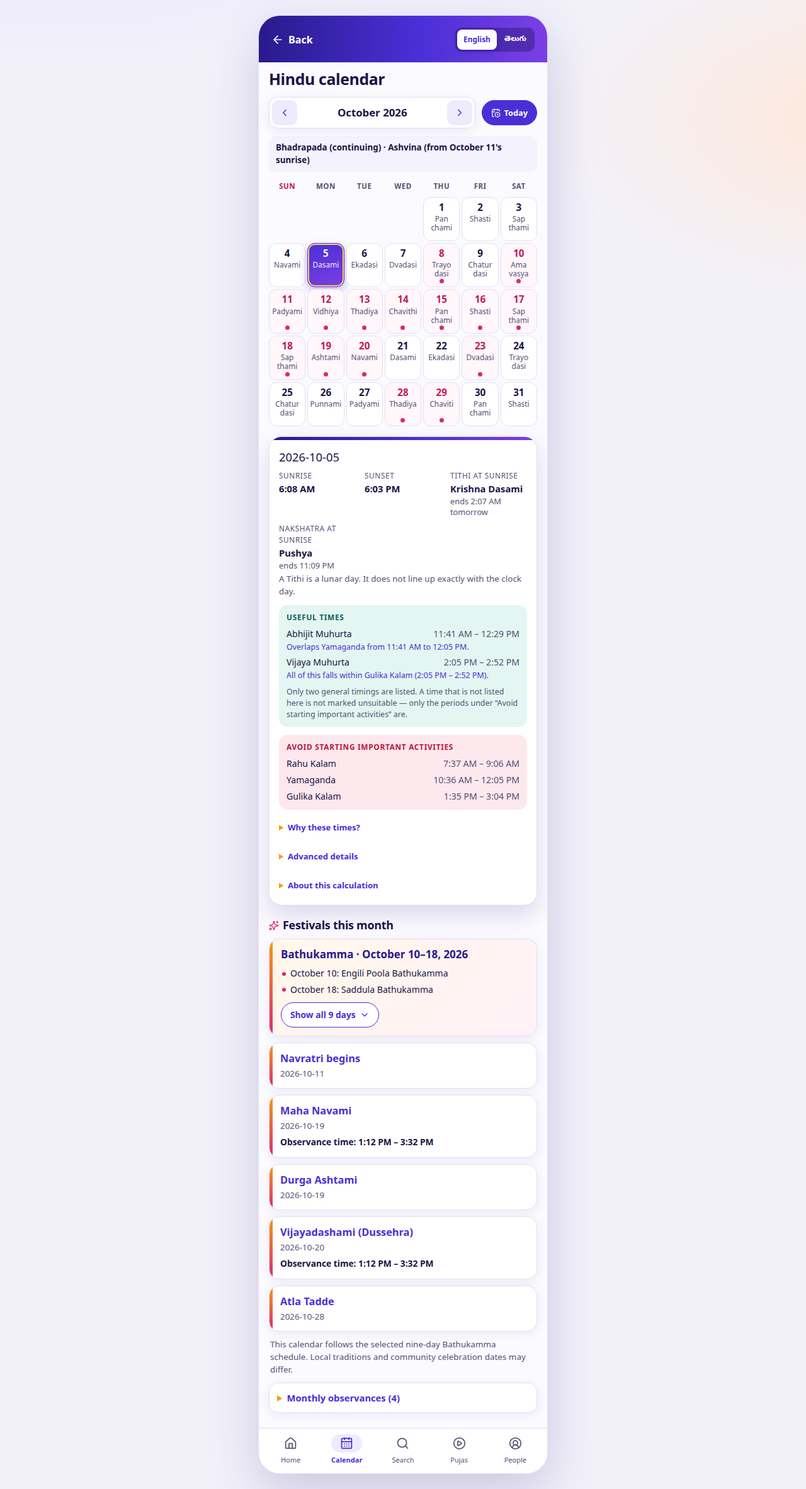
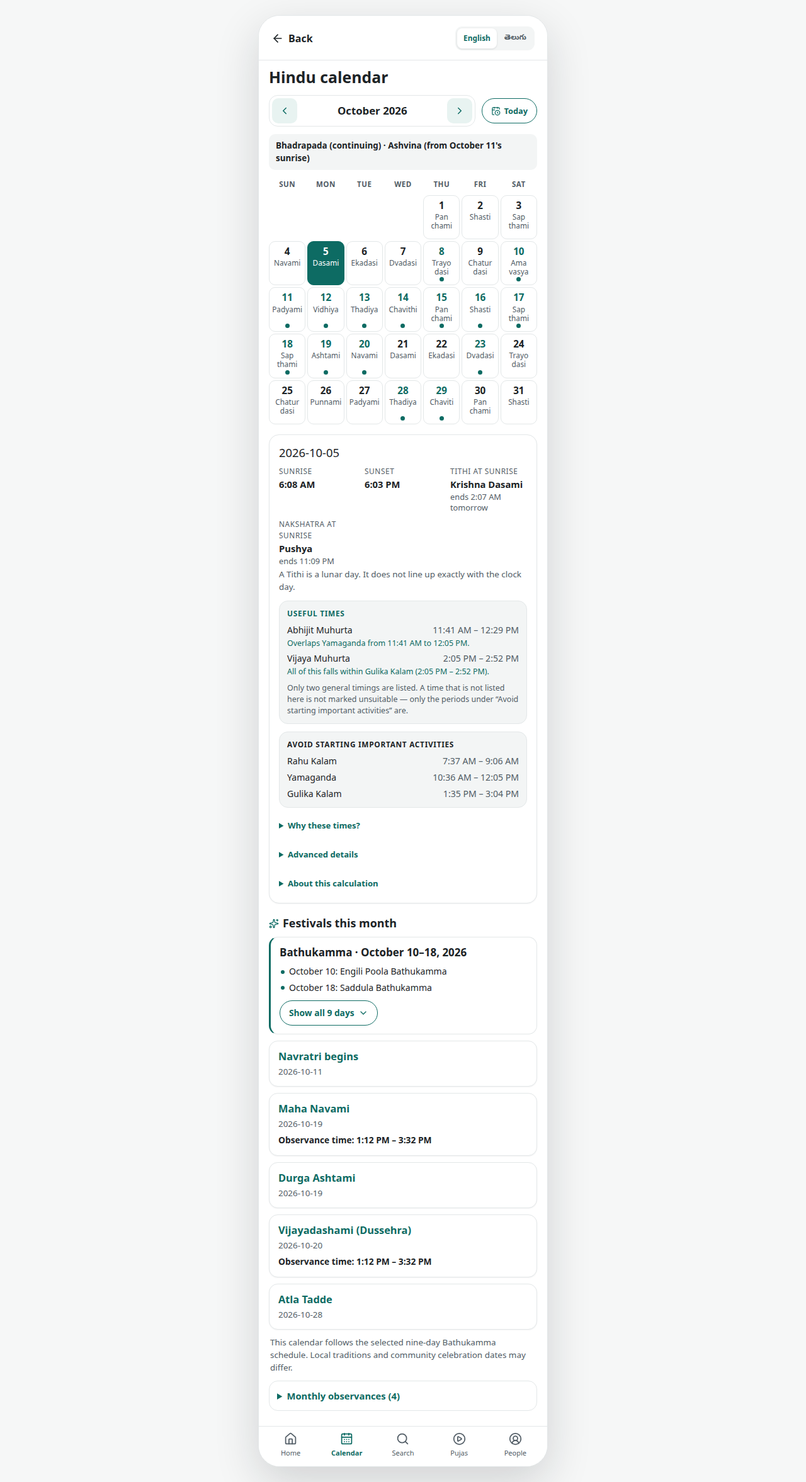
Design exploration: simplify to one calm accent (owner feedback)
Owner feedback on the dusk/marigold version: "make it little more
different simple". Replaces it with a calmer third direction:

- one accent colour (deep teal #0d6b63) used only for primary actions,
  links, today/selected date and festival markers;
- no gradients anywhere; flat white app bar with a hairline divider;
- white cards on a cool-neutral page (#f6f7f7), one neutral tint
  (#f3f5f5) for secondary panels; no per-panel hues;
- plain system-sans type hierarchy (weight 700, no letter-spacing
  tricks); neutral shadows.

Same token architecture; the per-screen override block is about half
the size. Presentation only; Tithi-label wrapping rules untouched.
theme-color follows the white app bar. Screenshots updated.

diff --git a/app/globals.css b/app/globals.css
@@ -4,17 +4,17 @@
 
 .back-button{border:0;background:transparent;color:var(--foreground);display:flex;align-items:center;gap:7px;font-weight:700;padding:8px 0}.plain-note{margin:15px 0 0;padding-top:13px;border-top:1px solid rgba(255,255,255,.18);font-size:.78rem;line-height:1.45;color:rgba(255,255,255,.78)}.full-button{width:100%;border:0;text-align:left}.full-button>span{display:flex;align-items:center;color:var(--primary);font-size:.76rem;font-weight:800}.resume-line{display:flex;align-items:center;gap:6px;margin-top:12px;color:var(--primary);font-size:.78rem;font-weight:700}.flow-content{flex:1;padding:12px 20px 28px;overflow:auto}.flow-content>h1,.completion h1{margin:0;font-family:var(--font-display);font-size:1.8rem;line-height:1.3}.flow-intro{margin:10px 0 20px;color:var(--muted);font-size:.95rem;line-height:1.55}.person-list{display:grid;gap:12px}.form-card{border:1px solid var(--border);border-radius:18px;background:#fff;padding:16px}.form-card h2{margin:0 0 14px;font-family:var(--font-display);font-size:1.05rem}.form-card label{display:block;margin-top:12px;font-size:.82rem;font-weight:700}.form-card input,.form-card select{display:block;width:100%;margin-top:7px;border:1px solid var(--border);border-radius:11px;background:#fff;color:var(--foreground);padding:12px;font-size:.9rem}.add-button{width:100%;margin-top:12px;border:1px dashed var(--primary);border-radius:14px;background:var(--primary-soft);color:var(--primary);padding:12px;display:flex;justify-content:center;align-items:center;gap:7px;font-weight:800}.safety-note,.simple-explanation{display:flex;gap:11px;margin:18px 0;padding:14px;border-radius:16px;background:var(--surface-2);color:var(--foreground)}.safety-note svg,.simple-explanation>svg{flex:none;color:var(--primary)}.safety-note strong{font-size:.83rem}.safety-note p,.simple-explanation p{margin:6px 0 0;color:var(--muted);font-size:.8rem;line-height:1.5}.wide-primary{width:100%;min-height:48px;border:0;border-radius:14px;background:var(--primary);color:#fff;display:flex;align-items:center;justify-content:center;gap:8px;font-weight:800}.progress-label,.step-line{display:flex;justify-content:space-between;margin:18px 1px 8px;font-size:.8rem;color:var(--muted)}.progress-track{height:7px;border-radius:999px;background:var(--track);overflow:hidden}.progress-track span{display:block;height:100%;border-radius:999px;background:var(--primary);transition:width .25s ease}.check-box{width:22px;height:22px;border:1.5px solid var(--control-border);border-radius:7px;display:grid;place-items:center;flex:none}.simple-explanation h2{margin:0;font-family:var(--font-display);font-size:1rem}.simple-explanation strong{display:block;margin-top:8px;font-size:.78rem;line-height:1.4}.participant-summary{display:flex;align-items:center;gap:7px;color:var(--muted);font-size:.82rem;margin:18px 1px 12px}.puja-flow{display:flex;flex-direction:column}.puja-card{margin-top:20px;border:1px solid var(--border);border-radius:23px;background:#fff;padding:22px}.telugu-title{margin:0 0 8px;color:var(--primary);font-weight:800}.puja-card h1{margin:0;font-family:var(--font-display);font-size:1.7rem}.locked-note{display:flex;gap:9px;margin:15px 0;padding:12px;border-radius:13px;background:var(--warn-soft);color:var(--warn-text);font-size:.78rem;line-height:1.45}.locked-note svg{flex:none}.audio-button{width:100%;min-height:46px;border-radius:13px;display:flex;align-items:center;justify-content:center;gap:8px;font-weight:800;border:0;background:var(--primary-soft);color:var(--primary)}.audio-button:disabled{opacity:.65;cursor:not-allowed}.step-actions{display:grid;grid-template-columns:1fr 1.35fr;gap:10px;margin-top:auto;padding-top:22px}.step-actions button{min-height:47px;border:1px solid var(--border);border-radius:13px;background:#fff;color:var(--foreground);font-weight:800}.step-actions button:disabled{opacity:.4}.step-actions .primary-action{background:var(--primary);border-color:var(--primary);color:#fff;display:flex;align-items:center;justify-content:center;gap:5px}.completion{flex:1;display:flex;flex-direction:column;align-items:center;justify-content:center;text-align:center;padding:35px 25px}.completion-icon{width:76px;height:76px;border-radius:50%;display:grid;place-items:center;background:var(--primary-soft);color:var(--primary);margin-bottom:20px}.completion>p:not(.kicker){max-width:330px;color:var(--muted);line-height:1.6}.completion .wide-primary{max-width:310px;margin-top:20px}.restart-button{margin-top:10px;border:0;background:transparent;color:var(--primary);display:flex;align-items:center;gap:6px;padding:10px;font-weight:700}
 
-/* Core design tokens (vibrant/modern direction). Every component below reads
- * its colours from these, so the palette changes in one place. Text pairs
- * are chosen to meet WCAG AA (4.5:1): foreground/surface 17:1, muted/surface
- * 7.2:1, primary/surface 7.9:1, white/primary 7.9:1. */
-:root{--background:#f2f1fa;--foreground:#1a1446;--card:#fbfaff;--primary:#4a2fd6;--primary-dark:#2a1a8c;--primary-soft:#eeebff;--muted:#575377;--border:#e3e0f2;
-  --surface:#ffffff;--surface-2:#f4f2fd;--surface-accent:#f6f4ff;--track:#e4e1f5;--control-border:#7d7aa3;--past-dot:#b9b5d6;
-  --danger:#be123c;--warn-soft:#fff4dc;--warn-text:#8a4b00;--accent-light:#ffd166;
-  --hero-gradient:linear-gradient(90deg,#2a1a8c 0%,#4a2fd6 55%,#7b3fe4 100%);
+/* Core design tokens (simple/modern direction). Every component below reads
+ * its colours from these, so the palette changes in one place.
+ * One accent (--primary, deep teal) on white and cool-neutral surfaces.
+ * Text pairs meet WCAG AA (4.5:1): foreground/white 15.9:1, muted/white
+ * 6.7:1, primary/white 6.4:1, white/primary 6.4:1. */
+:root{--background:#f6f7f7;--foreground:#1c2326;--card:#ffffff;--primary:#0d6b63;--primary-dark:#0a524c;--primary-soft:#e8f3f1;--muted:#525d66;--border:#e3e7e8;
+  --surface:#ffffff;--surface-2:#f3f5f5;--surface-accent:#f3f5f5;--track:#e3e7e8;--control-border:#7a858c;--past-dot:#c3c9cc;
+  --danger:#b42318;--warn-soft:#fff4dc;--warn-text:#8a4b00;--accent-light:#ffffff;
   --font-body:ui-sans-serif,system-ui,-apple-system,"Segoe UI",Roboto,"Helvetica Neue",Arial,sans-serif;
   --font-display:var(--font-body)}
-*{box-sizing:border-box}body{margin:0;background:var(--background);color:var(--foreground);font-family:var(--font-body)}button,select{font:inherit}button{cursor:pointer}button:disabled{opacity:.5;cursor:not-allowed}.app-shell{min-height:100vh;display:grid;place-items:center;padding:24px}.phone-shell{width:min(100%,460px);min-height:min(900px,calc(100vh - 48px));background:var(--card);border:1px solid var(--border);border-radius:34px;overflow:hidden;box-shadow:0 24px 70px rgba(36,24,110,.16);display:flex;flex-direction:column}.topbar{padding:22px 20px 14px;display:flex;align-items:center;justify-content:space-between;gap:16px}.brand-lockup{display:flex;align-items:center;gap:11px}.brand-mark{width:43px;height:43px;border-radius:14px;display:grid;place-items:center;background:var(--primary-soft);color:var(--primary);font-family:var(--font-display);font-size:23px}.brand-name{font-family:var(--font-display);font-size:1.18rem;font-weight:700}.location-button{border:0;padding:4px 0 0;background:transparent;color:var(--muted);display:flex;align-items:center;gap:3px;font-size:.78rem}.content{flex:1;padding:2px 18px 22px}.welcome-row{display:flex;justify-content:space-between;align-items:flex-start;gap:14px;margin:8px 2px 18px}.kicker,.eyebrow{margin:0 0 5px;font-size:.69rem;letter-spacing:.12em;font-weight:800;color:var(--muted)}.welcome-row h1{margin:0;font-family:var(--font-display);font-size:1.9rem;line-height:1.3}.welcome-copy{margin:7px 0 0;color:var(--muted);font-size:.88rem;line-height:1.4}.today-card{padding:19px;border-radius:24px;color:#fff;background:linear-gradient(145deg,var(--primary-dark),var(--danger));box-shadow:0 12px 28px rgba(58,36,180,.22)}.card-heading-row{display:flex;align-items:flex-start;justify-content:space-between;gap:10px}.today-card .eyebrow{color:rgba(255,255,255,.7)}.today-card h2{margin:0;font-family:var(--font-display);font-size:1.25rem}.status-chip{display:flex;align-items:center;gap:5px;padding:6px 8px;border:1px solid rgba(255,255,255,.25);border-radius:999px;font-size:.7rem;background:rgba(255,255,255,.08)}.panchanga-grid{margin-top:18px;padding-top:15px;border-top:1px solid rgba(255,255,255,.18);display:grid;grid-template-columns:repeat(3,1fr);gap:10px}.panchanga-grid span,.panchanga-grid strong{display:block}.panchanga-grid span{margin-bottom:5px;color:rgba(255,255,255,.68);font-size:.71rem}.panchanga-grid strong{font-size:.78rem;line-height:1.35}
+*{box-sizing:border-box}body{margin:0;background:var(--background);color:var(--foreground);font-family:var(--font-body)}button,select{font:inherit}button{cursor:pointer}button:disabled{opacity:.5;cursor:not-allowed}.app-shell{min-height:100vh;display:grid;place-items:center;padding:24px}.phone-shell{width:min(100%,460px);min-height:min(900px,calc(100vh - 48px));background:var(--card);border:1px solid var(--border);border-radius:34px;overflow:hidden;box-shadow:0 24px 70px rgba(16,24,32,.16);display:flex;flex-direction:column}.topbar{padding:22px 20px 14px;display:flex;align-items:center;justify-content:space-between;gap:16px}.brand-lockup{display:flex;align-items:center;gap:11px}.brand-mark{width:43px;height:43px;border-radius:14px;display:grid;place-items:center;background:var(--primary-soft);color:var(--primary);font-family:var(--font-display);font-size:23px}.brand-name{font-family:var(--font-display);font-size:1.18rem;font-weight:700}.location-button{border:0;padding:4px 0 0;background:transparent;color:var(--muted);display:flex;align-items:center;gap:3px;font-size:.78rem}.content{flex:1;padding:2px 18px 22px}.welcome-row{display:flex;justify-content:space-between;align-items:flex-start;gap:14px;margin:8px 2px 18px}.kicker,.eyebrow{margin:0 0 5px;font-size:.69rem;letter-spacing:.12em;font-weight:800;color:var(--muted)}.welcome-row h1{margin:0;font-family:var(--font-display);font-size:1.9rem;line-height:1.3}.welcome-copy{margin:7px 0 0;color:var(--muted);font-size:.88rem;line-height:1.4}.today-card{padding:19px;border-radius:24px;color:#fff;background:var(--primary-dark);box-shadow:0 12px 28px rgba(16,24,32,.22)}.card-heading-row{display:flex;align-items:flex-start;justify-content:space-between;gap:10px}.today-card .eyebrow{color:rgba(255,255,255,.7)}.today-card h2{margin:0;font-family:var(--font-display);font-size:1.25rem}.status-chip{display:flex;align-items:center;gap:5px;padding:6px 8px;border:1px solid rgba(255,255,255,.25);border-radius:999px;font-size:.7rem;background:rgba(255,255,255,.08)}.panchanga-grid{margin-top:18px;padding-top:15px;border-top:1px solid rgba(255,255,255,.18);display:grid;grid-template-columns:repeat(3,1fr);gap:10px}.panchanga-grid span,.panchanga-grid strong{display:block}.panchanga-grid span{margin-bottom:5px;color:rgba(255,255,255,.68);font-size:.71rem}.panchanga-grid strong{font-size:.78rem;line-height:1.35}
 .panchanga-values{margin:15px 0 0;padding:0;display:grid;grid-template-columns:1fr 1fr;gap:12px 14px}
 .panchanga-values div{margin:0}
 .panchanga-values dt{margin:0 0 3px;color:rgba(255,255,255,.68);font-size:.7rem;letter-spacing:.06em;text-transform:uppercase}
@@ -74,7 +74,7 @@
 @media(max-width:370px){.material-head{flex-direction:column}}
 
 /* Review round 2: gating, pilot data, patri self-report */
-.global-lang-toggle{display:flex;gap:2px;padding:3px;border-radius:11px;background:var(--surface-2);flex:none}.global-lang-toggle button{border:0;border-radius:8px;background:transparent;padding:6px 10px;color:var(--muted);font-size:.74rem;font-weight:700}.global-lang-toggle button.active{background:#fff;color:var(--primary);box-shadow:0 1px 5px rgba(36,24,110,.1)}
+.global-lang-toggle{display:flex;gap:2px;padding:3px;border-radius:11px;background:var(--surface-2);flex:none}.global-lang-toggle button{border:0;border-radius:8px;background:transparent;padding:6px 10px;color:var(--muted);font-size:.74rem;font-weight:700}.global-lang-toggle button.active{background:#fff;color:var(--primary);box-shadow:0 1px 5px rgba(16,24,32,.1)}
 .info-note{display:flex;gap:8px;align-items:flex-start;margin:14px 0;padding:11px 12px;border-radius:12px;background:#eef1f3;color:#3f4b52;font-size:.82rem;line-height:1.5;font-weight:600}
 .info-note svg{flex:none;margin-top:1px}
 .awaiting-review{display:flex;gap:8px;align-items:flex-start;margin:12px 0 0;padding:11px 12px;border-radius:12px;background:#fdeae2;border:1px solid #efb79c;color:#8a3c1c;font-size:.82rem;line-height:1.5;font-weight:600}
@@ -93,7 +93,7 @@
 .candidate-disclaimer{margin:0;color:var(--muted);font-size:.76rem;line-height:1.45}
 
 /* End-to-end private review journey */
-.path-options{border:0;margin:16px 0;padding:0;display:grid;gap:9px}.path-options label{display:flex;gap:10px;padding:13px;border:1px solid var(--border);border-radius:14px;background:#fff;cursor:pointer}.path-options label.selected{border-color:var(--primary);background:var(--primary-soft)}.path-options input{accent-color:var(--primary)}.path-options strong,.path-options small{display:block}.path-options small{margin-top:4px;color:var(--muted);line-height:1.4}.reviewer-banner{display:flex;gap:8px;align-items:flex-start;margin:0 0 14px;padding:10px 11px;border:1px solid #e7c578;border-radius:12px;background:#fff8df;color:#684b12;font-size:.76rem;line-height:1.45}.reviewer-banner svg{flex:none;margin-top:1px}.language-toggle{display:grid;grid-template-columns:1fr 1fr;gap:5px;margin-bottom:15px;padding:4px;border-radius:12px;background:var(--surface-2)}.language-toggle button{border:0;border-radius:9px;background:transparent;padding:8px;color:var(--muted);font-weight:700}.language-toggle button.active{background:#fff;color:var(--primary);box-shadow:0 1px 5px rgba(36,24,110,.1)}.step-meta{margin:7px 0 0;color:var(--muted);font-size:.76rem;font-weight:700}.participant-review{margin-top:14px;padding:12px;border-radius:12px;background:var(--surface-2)}.participant-review p{margin:5px 0;font-size:.9rem}.participant-review small{color:var(--muted);line-height:1.4}.audio-note{margin:6px 0 0;color:var(--muted);font-size:.72rem;line-height:1.4}.wide-secondary{width:100%;max-width:310px;min-height:48px;border:1px solid var(--primary);border-radius:14px;background:#fff;color:var(--primary);display:flex;align-items:center;justify-content:center;gap:8px;font-weight:800;margin-top:18px}.immersion-flow>h1{margin-bottom:14px}.choice-card{margin:12px 0;padding:16px;border:1px solid var(--border);border-radius:16px;background:#fff}.choice-card h2{margin:0 0 8px;font-family:var(--font-display);font-size:1.08rem}.choice-card p,.choice-card li{color:var(--muted);font-size:.84rem;line-height:1.55}.choice-card p{margin:0}.choice-card ol{padding-left:20px;margin:8px 0 0}.choice-card li+li{margin-top:5px}
+.path-options{border:0;margin:16px 0;padding:0;display:grid;gap:9px}.path-options label{display:flex;gap:10px;padding:13px;border:1px solid var(--border);border-radius:14px;background:#fff;cursor:pointer}.path-options label.selected{border-color:var(--primary);background:var(--primary-soft)}.path-options input{accent-color:var(--primary)}.path-options strong,.path-options small{display:block}.path-options small{margin-top:4px;color:var(--muted);line-height:1.4}.reviewer-banner{display:flex;gap:8px;align-items:flex-start;margin:0 0 14px;padding:10px 11px;border:1px solid #e7c578;border-radius:12px;background:#fff8df;color:#684b12;font-size:.76rem;line-height:1.45}.reviewer-banner svg{flex:none;margin-top:1px}.language-toggle{display:grid;grid-template-columns:1fr 1fr;gap:5px;margin-bottom:15px;padding:4px;border-radius:12px;background:var(--surface-2)}.language-toggle button{border:0;border-radius:9px;background:transparent;padding:8px;color:var(--muted);font-weight:700}.language-toggle button.active{background:#fff;color:var(--primary);box-shadow:0 1px 5px rgba(16,24,32,.1)}.step-meta{margin:7px 0 0;color:var(--muted);font-size:.76rem;font-weight:700}.participant-review{margin-top:14px;padding:12px;border-radius:12px;background:var(--surface-2)}.participant-review p{margin:5px 0;font-size:.9rem}.participant-review small{color:var(--muted);line-height:1.4}.audio-note{margin:6px 0 0;color:var(--muted);font-size:.72rem;line-height:1.4}.wide-secondary{width:100%;max-width:310px;min-height:48px;border:1px solid var(--primary);border-radius:14px;background:#fff;color:var(--primary);display:flex;align-items:center;justify-content:center;gap:8px;font-weight:800;margin-top:18px}.immersion-flow>h1{margin-bottom:14px}.choice-card{margin:12px 0;padding:16px;border:1px solid var(--border);border-radius:16px;background:#fff}.choice-card h2{margin:0 0 8px;font-family:var(--font-display);font-size:1.08rem}.choice-card p,.choice-card li{color:var(--muted);font-size:.84rem;line-height:1.55}.choice-card p{margin:0}.choice-card ol{padding-left:20px;margin:8px 0 0}.choice-card li+li{margin-top:5px}
 
 /* Telugu/English narration controls */
 .audio-controls{display:flex;gap:8px;align-items:stretch}
@@ -186,7 +186,7 @@
 .toggle-caption{margin:0 0 4px;font-size:.72rem;line-height:1.45;color:var(--muted)}
 .playback-speed-toggle{display:grid;grid-template-columns:repeat(3,minmax(0,1fr));gap:5px;margin:0 0 15px;padding:4px;border-radius:12px;background:var(--surface-2)}
 .playback-speed-toggle button{border:0;border-radius:9px;background:transparent;padding:8px;color:var(--muted);font-weight:700;font-size:.82rem}
-.playback-speed-toggle button.active{background:#fff;color:var(--primary);box-shadow:0 1px 5px rgba(36,24,110,.1)}
+.playback-speed-toggle button.active{background:#fff;color:var(--primary);box-shadow:0 1px 5px rgba(16,24,32,.1)}
 .te-pending-note{margin:8px 0 0;padding:8px 10px;border-radius:9px;background:var(--warn-soft);color:var(--warn-text);font-size:.76rem;line-height:1.5}
 .app-audio{margin:14px 0 0}
 .app-audio .audio-controls{margin-top:0}
@@ -329,7 +329,7 @@
 /* Keep Previous/Next reachable after a long mantra */
 .puja-flow{scroll-padding-bottom:96px}
 .puja-flow .puja-card{margin-bottom:10px}
-.puja-flow .step-actions{position:sticky;bottom:0;z-index:2;background:var(--card);padding-top:14px;padding-bottom:calc(14px + env(safe-area-inset-bottom,0px));box-shadow:0 -10px 14px -8px rgba(36,24,110,.18)}
+.puja-flow .step-actions{position:sticky;bottom:0;z-index:2;background:var(--card);padding-top:14px;padding-bottom:calc(14px + env(safe-area-inset-bottom,0px));box-shadow:0 -10px 14px -8px rgba(16,24,32,.18)}
 /* Programmatic focus of the step heading on step change must not draw a
  * visible outline or shift layout; keyboard focus still shows one. */
 .puja-card h1{outline:none}
@@ -515,21 +515,21 @@
  * light cards, text accents in --primary and a decorative accent (--accent).
  * The layout and the Tithi-label wrapping decided here still apply; the
  * colours are re-themed by the "Vibrant/modern direction" block at the end. */
-:root{--accent:#f59e0b;--accent-soft:#fff4dc;--tile-border:#e7e4f6;--times-useful:#e3f6f1;--times-avoid:#fde8ee}
+:root{--accent:var(--primary);--accent-soft:var(--primary-soft);--tile-border:var(--border);--times-useful:var(--surface-2);--times-avoid:var(--surface-2)}
 
 /* Home: welcome */
 .welcome-row{margin:6px 2px 14px}
 .welcome-row h1{font-size:1.7rem;line-height:1.25}
 
 /* Home: today card - light, readable, saffron-tinted header */
-.today-card{padding:18px 16px 16px;border:1px solid var(--tile-border);border-top:4px solid var(--accent);border-radius:20px;color:var(--foreground);background:linear-gradient(180deg,var(--warn-soft) 0,#fffaf3 150px,#fffaf3 100%);box-shadow:0 8px 22px rgba(58,36,180,.08)}
+.today-card{padding:18px 16px 16px;border:1px solid var(--tile-border);border-top:4px solid var(--accent);border-radius:20px;color:var(--foreground);background:linear-gradient(180deg,var(--warn-soft) 0,#fffaf3 150px,#fffaf3 100%);box-shadow:0 8px 22px rgba(16,24,32,.08)}
 .today-card .eyebrow{color:var(--primary)}
 .today-card-place{display:flex;align-items:flex-start;gap:5px;line-height:1.4}
 .today-card-place svg{flex:none;margin-top:1px}
 .today-card h2{font-size:1.4rem;line-height:1.3;color:var(--foreground)}
 .today-card .plain-note{border-top-color:var(--border);color:var(--muted)}
 .today-card .panchanga-loading{color:var(--muted)}
-.today-card .panchanga-loading::after{border-color:rgba(74,47,214,.25);border-top-color:var(--primary)}
+.today-card .panchanga-loading::after{border-color:rgba(13,107,99,.25);border-top-color:var(--primary)}
 .today-card .source-link{color:var(--primary);font-weight:700;font-size:.82rem;min-height:32px}
 .today-card .panchanga-grid{border-top-color:var(--border)}
 .today-card .panchanga-grid span{color:var(--muted)}
@@ -576,7 +576,7 @@
 .calendar-festivals h2{font-size:1.12rem}
 .calendar-festivals h2 svg{color:var(--accent)}
 .home-festivals{margin-top:22px}
-.calendar-festival-card{margin:0 0 10px;padding:13px 14px;border-radius:14px;box-shadow:0 1px 3px rgba(36,24,110,.06)}
+.calendar-festival-card{margin:0 0 10px;padding:13px 14px;border-radius:14px;box-shadow:0 1px 3px rgba(16,24,32,.06)}
 .calendar-festival-open{flex-direction:column;align-items:flex-start;justify-content:flex-start;gap:3px;text-align:left;min-height:32px}
 .calendar-festival-open strong{font-size:1.02rem;line-height:1.35;overflow-wrap:anywhere}
 .calendar-festival-open span{font-size:.84rem}
@@ -590,7 +590,7 @@
 .home-festivals>.link-button{font-size:.88rem;min-height:36px}
 
 /* Home: guided puja entry + quick access */
-.home-puja-entry{display:flex;align-items:center;gap:12px;width:100%;margin:0 0 10px;padding:14px 15px;border:0;border-radius:16px;background:linear-gradient(135deg,var(--primary-dark),var(--primary));color:#fff;text-align:left;box-shadow:0 8px 18px rgba(58,36,180,.18)}
+.home-puja-entry{display:flex;align-items:center;gap:12px;width:100%;margin:0 0 10px;padding:14px 15px;border:0;border-radius:16px;background:linear-gradient(135deg,var(--primary-dark),var(--primary));color:#fff;text-align:left;box-shadow:0 8px 18px rgba(16,24,32,.18)}
 .home-puja-entry-icon{flex:none;width:40px;height:40px;border-radius:12px;display:grid;place-items:center;background:rgba(255,255,255,.16);color:var(--accent-light)}
 .home-puja-entry-copy{flex:1;min-width:0}
 .home-puja-entry-copy strong{display:block;font-size:1rem}
@@ -694,147 +694,67 @@
 }
 @media (prefers-reduced-motion:reduce){.calendar-group-toggle svg{transition:none}}
 
-/* ══ Vibrant/modern direction (design exploration) ═════════════════════════
- * Presentation only - no layout logic, no content. One visual identity:
- *  - deep indigo -> violet "dusk" gradient for the app bar and Home hero
- *    (--hero-gradient), with white text;
- *  - marigold (--accent) for warmth, "today" and small highlights;
- *  - kumkum rose (--festive) for festival markers;
- *  - clean white cards on a cool, light background; teal for useful times,
- *    rose for times to avoid.
- * Every text colour used here meets WCAG AA 4.5:1 on its own background.
+/* ══ Simple/modern direction (design exploration) ══════════════════════════
+ * Presentation only - no layout logic, no content. Kept deliberately calm:
+ *  - ONE accent colour (--primary, deep teal) for primary actions, links,
+ *    today / selected date and festival markers - nothing else is coloured;
+ *  - flat colour only (no gradients), white cards on a cool-neutral page,
+ *    one neutral tint (--surface-2) for secondary panels;
+ *  - a plain system-sans type hierarchy.
  * Tithi-label wrapping is NOT touched here (see the block above). */
-:root{--festive:#db2777;--festive-strong:#be185d;--festive-soft:#fff1f7;--today-ring:#e8590c;
-  --useful-text:#115e59;--avoid-text:#be123c;--accent-text:#9a4a06;
-  --card-shadow:0 4px 16px rgba(36,24,110,.07);--raised-shadow:0 16px 36px rgba(36,24,110,.14);
-  --festive-bar:linear-gradient(180deg,#f59e0b,#db2777);
-  --button-gradient:linear-gradient(90deg,#3d24c4,#6a35e0)}
+:root{--card-shadow:0 1px 2px rgba(16,24,32,.05)}
 
-/* Page + shell */
-body{background:radial-gradient(1100px 620px at 8% -12%,#e4ddff 0,transparent 62%),radial-gradient(900px 520px at 108% 8%,#ffe8d9 0,transparent 58%),var(--background)}
-.phone-shell{border-color:var(--border);box-shadow:0 30px 80px rgba(36,24,110,.18)}
+/* App bar: plain white with a hairline divider */
+.topbar{padding:16px 20px 14px;background:var(--surface);border-bottom:1px solid var(--border)}
+.global-lang-toggle button.active{box-shadow:0 1px 3px rgba(16,24,32,.12)}
 
-/* App bar: the same dusk gradient on every screen. A 90deg gradient only
- * varies horizontally, so it joins the Home hero below without a seam. */
-.topbar{padding:18px 20px 16px;background:var(--hero-gradient);color:#fff}
-.brand-mark{background:rgba(255,255,255,.14);border:1px solid rgba(255,255,255,.24);color:var(--accent-light);font-weight:700}
-.brand-name{color:#fff;font-weight:800;letter-spacing:-.01em}
-.location-button{color:#ece8ff;min-height:24px}
-.back-button,.topbar-title{color:#fff}
-.global-lang-toggle{background:rgba(16,8,70,.32)}
-.global-lang-toggle button{color:#fff;min-height:30px}
-.global-lang-toggle button.active{background:#fff;color:var(--primary);box-shadow:0 2px 8px rgba(16,8,70,.25)}
-.topbar :focus-visible{outline:2px solid var(--accent-light);outline-offset:2px}
+/* Headings: one sans family, clear weights, no decoration */
+.brand-name,.welcome-row h1,.flow-content>h1,.completion h1,.calendar-head h1,.search-screen h1,.section-title-row h2,.calendar-festivals h2,.today-card h2,.puja-card h1,.form-card h2,.choice-card h2{font-weight:700}
+.welcome-row{margin:16px 2px 16px}
+.welcome-row h1{font-size:1.65rem}
 
-/* Headings: modern sans, heavier weight */
-.welcome-row h1,.flow-content>h1,.completion h1,.calendar-head h1,.search-screen h1,.section-title-row h2,.calendar-festivals h2,.today-card h2,.puja-card h1,.form-card h2,.choice-card h2{font-weight:800;letter-spacing:-.015em}
+/* Home: today card and its tiles - white, hairline borders */
+.today-card{border:1px solid var(--border);border-radius:18px;background:var(--surface);box-shadow:var(--card-shadow)}
+.home-glance .home-tithi,.home-glance .home-nakshatra,.home-sun div{border:1px solid var(--border);background:var(--surface)}
+.home-times,.cal-times{border:1px solid var(--border);background:var(--surface-2)}
+.home-times-avoid h3,.cal-times-avoid h3{color:var(--foreground)}
 
-/* Home hero: full-bleed continuation of the app bar */
-.welcome-row{margin:-2px -18px 0;padding:4px 20px 46px;border-radius:0 0 30px 30px;color:#fff;background:radial-gradient(280px 170px at 100% 100%,rgba(255,120,190,.30),transparent 70%),var(--hero-gradient)}
-.welcome-row .kicker{color:var(--accent-light)}
-.welcome-row h1{color:#fff;font-size:1.85rem}
-.welcome-copy{color:#ece8ff}
-.welcome-row+.today-card,.welcome-row+.location-nudge{position:relative;margin-top:-30px}
-@media(max-width:370px){.welcome-row{margin-inline:-13px;padding-inline:15px}}
-
-/* Home: today card - white, raised over the hero */
-.today-card{border:1px solid var(--border);border-top:1px solid var(--border);border-radius:24px;background:var(--surface);box-shadow:var(--raised-shadow)}
-.today-card .eyebrow{color:var(--primary)}
-.home-glance .home-tithi,.home-glance .home-nakshatra{border:0;background:var(--surface-2)}
-.home-glance .home-tithi{background:linear-gradient(135deg,#eeebff,#f6efff)}
-.home-sun div{border:0;background:var(--accent-soft)}
-.home-sun div+div{background:var(--festive-soft)}
-.home-sun dt svg{color:var(--accent-text)}
-.home-sun div+div dt svg{color:var(--festive-strong)}
-.location-nudge{background:var(--surface);border-color:var(--border);box-shadow:var(--card-shadow)}
-
-/* Useful / avoid times (Home + Calendar) */
-.home-times,.cal-times{background:var(--times-useful)}
-.home-times-avoid,.cal-times-avoid{background:var(--times-avoid)}
-.home-times h3,.cal-times h3{color:var(--useful-text)}
-.home-times-avoid h3,.cal-times-avoid h3{color:var(--avoid-text)}
-.home-why,.home-see-full{border-top-color:var(--border)}
-
-/* Festival cards (Home + Calendar) - a marigold-to-kumkum bar on the left */
-.calendar-festivals h2 svg{color:var(--festive)}
-.calendar-festival-card{padding-left:17px;border:1px solid var(--border);border-radius:16px;background:var(--festive-bar) left/5px 100% no-repeat,var(--surface);box-shadow:var(--card-shadow)}
-.calendar-festival-card.is-past{background:linear-gradient(var(--past-dot),var(--past-dot)) left/5px 100% no-repeat,var(--surface-2);box-shadow:none}
+/* Festival cards (Home + Calendar) */
+.calendar-festivals h2 svg{color:var(--primary)}
+.calendar-festival-card{border-color:var(--border);background:var(--surface);box-shadow:var(--card-shadow)}
+.calendar-festival-card.is-past{background:var(--surface-2)}
 .calendar-festival-card.is-focused{border-color:var(--primary);box-shadow:0 0 0 2px var(--primary)}
 .calendar-festival-open strong{color:var(--primary)}
-.calendar-festival-card .link-button{background:var(--button-gradient);box-shadow:0 4px 12px rgba(74,47,214,.25)}
-.calendar-festival-card .link-button:hover{background:var(--primary-dark)}
 
-/* Primary actions */
-.wide-primary,.primary-action,.step-actions .primary-action,.app-audio-button{background:var(--button-gradient);border-color:var(--primary);box-shadow:0 6px 16px rgba(74,47,214,.22)}
-.wide-primary:hover,.primary-action:hover,.app-audio-button:hover{background:var(--primary-dark)}
-.wide-secondary,.offline-download-actions button{border-color:var(--primary)}
-.wide-primary:focus-visible,.wide-secondary:focus-visible,.primary-action:focus-visible,.secondary-action:focus-visible,.link-button:focus-visible,.calendar-group-toggle:focus-visible{outline:2px solid var(--primary);outline-offset:3px}
+/* Home: guided puja entry (the one solid-colour card) + quick access */
+.home-puja-entry{background:var(--primary);box-shadow:none}
+.home-puja-entry:hover{background:var(--primary-dark)}
+.quick-grid button{border-color:var(--border);background:var(--surface);box-shadow:var(--card-shadow)}
 
-/* Home: guided puja entry + quick access */
-.home-puja-entry{background:linear-gradient(120deg,#be185d,#7c3aed);box-shadow:0 10px 22px rgba(190,24,93,.22)}
-.home-puja-entry-icon{background:rgba(255,255,255,.18);color:var(--accent-light)}
-.home-puja-entry-copy small{color:rgba(255,255,255,.94)}
-.quick-grid button{min-height:96px;border-color:var(--border);border-radius:18px;background:var(--surface);box-shadow:var(--card-shadow)}
-.quick-grid svg{box-sizing:content-box;padding:9px;border-radius:14px;background:var(--primary-soft);color:var(--primary)}
-.quick-grid button:nth-child(2) svg{background:var(--accent-soft);color:var(--accent-text)}
-.quick-grid button:nth-child(3) svg{background:var(--festive-soft);color:var(--festive-strong)}
-
-/* Bottom navigation: active tab gets a soft pill behind its icon */
-.bottom-nav{background:rgba(255,255,255,.96);border-top-color:var(--border)}
-.bottom-nav button{min-height:48px}
-.bottom-nav button svg{box-sizing:content-box;padding:4px 14px;border-radius:999px}
-.bottom-nav button.active svg{background:var(--primary-soft)}
-.bottom-nav button:focus-visible{outline:2px solid var(--primary);outline-offset:-2px;border-radius:12px}
-
-/* Shared cards, forms and notes (People, Pujas, Search, flows) */
-.form-card,.choice-card,.location-current,.offline-download,.mode-option,.path-options label,.patri-option,.sankalpam-choice,.sankalpam-per-participant-gotra,.correction-panel{border-color:var(--border);background:var(--surface);box-shadow:var(--card-shadow)}
-.mode-option.selected,.path-options label.selected,.patri-option.selected{border-color:var(--primary);background:var(--primary-soft);box-shadow:0 0 0 1px var(--primary)}
-.form-card input,.form-card select,.voice-select select,.correction-field select,.correction-field textarea,.sankalpam-family-gotra input{border-color:#cfcbe6}
+/* Shared cards and form focus (People, Pujas, Search, flows) */
+.form-card,.choice-card,.mode-option,.path-options label,.patri-option,.search-results button,.search-field,.calendar-monthly{border-color:var(--border);background:var(--surface)}
+.form-card input,.form-card select,.search-field{border-color:#d3d9db}
 .form-card input:focus-visible,.form-card select:focus-visible,.voice-select select:focus-visible,.correction-field select:focus-visible,.correction-field textarea:focus-visible,.sankalpam-family-gotra input:focus-visible{outline:2px solid var(--primary);outline-offset:1px;border-color:var(--primary)}
-.puja-catalogue-item:hover{border-color:var(--primary)}
-.safety-note,.simple-explanation{background:var(--surface-2)}
-.add-button{background:var(--primary-soft)}
-.language-toggle,.playback-speed-toggle{background:var(--surface-2)}
-.puja-card{border-color:var(--border);box-shadow:var(--card-shadow)}
-.mantra-te,.katha-block,.sankalpam-assembled,.conclusion-block{background:var(--surface-accent)}
-.progress-track span,.offline-download-bar span{background:var(--button-gradient)}
-
-/* Search */
-.search-field{border-color:#cfcbe6;border-radius:14px;background:var(--surface);box-shadow:var(--card-shadow)}
 .search-field:focus-within{outline:2px solid var(--primary);outline-offset:1px;border-color:var(--primary)}
-.search-field svg{color:var(--primary)}
-.search-results button{border-color:var(--border);border-radius:14px;background:var(--surface);box-shadow:var(--card-shadow)}
-.search-results button:hover{border-color:var(--primary)}
+.search-results button:hover,.puja-catalogue-item:hover{border-color:var(--primary)}
+.wide-primary:hover,.primary-action:hover,.app-audio-button:hover{background:var(--primary-dark)}
+.wide-primary:focus-visible,.wide-secondary:focus-visible,.primary-action:focus-visible,.secondary-action:focus-visible,.link-button:focus-visible,.calendar-group-toggle:focus-visible,.bottom-nav button:focus-visible{outline:2px solid var(--primary);outline-offset:2px}
 
-/* Calendar: header + month navigation */
-.calendar-nav{border-color:var(--border);background:var(--surface);box-shadow:var(--card-shadow)}
-.calendar-nav button{background:var(--primary-soft);color:var(--primary)}
-.calendar-today-btn{border-color:var(--primary);background:var(--primary);color:#fff}
-.calendar-month-markers{background:var(--surface-2)}
-.calendar-weekday:first-child{color:var(--festive-strong)}
-
-/* Calendar: month grid (colours only - sizes and wrapping are unchanged) */
-.calendar-cell{border-color:var(--border);border-radius:12px;background:var(--surface)}
-.calendar-cell:not(.calendar-blank):hover{border-color:var(--primary)}
+/* Calendar: month navigation and grid (colours only - sizes and wrapping
+ * are unchanged). Today = teal ring, selected = teal fill, festival = teal
+ * date number + dot. */
+.calendar-nav{border-color:var(--border);background:var(--surface)}
+.calendar-today-btn{background:var(--surface)}
+.calendar-cell{border-color:var(--border);background:var(--surface)}
 .calendar-cell.calendar-blank{background:transparent}
-.calendar-cell.has-festival{background:#fff7fa}
-.calendar-cell.has-festival .calendar-daynum{color:var(--festive-strong)}
-.calendar-fest-dot{background:var(--festive)}
-.calendar-cell.is-today{border-color:var(--today-ring);box-shadow:inset 0 0 0 1px var(--today-ring)}
-.calendar-cell.is-selected{background:linear-gradient(160deg,var(--primary),#7b3fe4);border-color:var(--primary);color:#fff;box-shadow:0 6px 14px rgba(74,47,214,.3)}
+.calendar-cell:not(.calendar-blank):hover{border-color:var(--primary)}
+.calendar-cell.has-festival{background:var(--surface)}
+.calendar-cell.is-selected,.calendar-cell.is-selected.has-festival{background:var(--primary);border-color:var(--primary);color:#fff}
 .calendar-cell.is-selected.has-festival .calendar-daynum{color:#fff}
-.calendar-cell.is-selected .calendar-tithi{color:rgba(255,255,255,.94)}
-.calendar-cell.is-selected .calendar-fest-dot{background:var(--accent-light)}
-.calendar-cell.is-today.is-selected{box-shadow:inset 0 0 0 2px var(--accent-light),0 6px 14px rgba(74,47,214,.3)}
+.calendar-cell.is-selected .calendar-tithi{color:#fff}
 
-/* Calendar: selected day - white card with a dusk-gradient top strip */
-.calendar-selected{padding-top:18px;border:1px solid var(--border);border-radius:20px;background:var(--hero-gradient) top/100% 5px no-repeat,var(--surface);box-shadow:var(--raised-shadow)}
-
-/* Calendar: grouped festivals (Bathukamma) + monthly observances */
-.calendar-group{padding-left:18px;border:1px solid var(--border);border-radius:16px;background:var(--festive-bar) left/5px 100% no-repeat,linear-gradient(135deg,#fff8ea,#fff1f7);box-shadow:var(--card-shadow)}
-.calendar-group-title{color:var(--primary-dark);font-weight:800}
-.calendar-group-summary li::before{background:var(--festive)}
-.calendar-group-summary li.is-past::before{background:var(--past-dot)}
-.calendar-group-toggle{border-color:var(--primary);background:var(--surface);color:var(--primary)}
-.calendar-monthly{border-color:var(--border);background:var(--surface);box-shadow:var(--card-shadow)}
-.calendar-deferred{background:var(--surface-2)}
+/* Calendar: selected day + grouped festivals (Bathukamma) */
+.calendar-selected{border:1px solid var(--border);border-radius:16px;background:var(--surface);box-shadow:var(--card-shadow)}
+.calendar-group{border:1px solid var(--border);border-left:3px solid var(--primary);background:var(--surface)}
+.calendar-group-title{color:var(--foreground);font-family:var(--font-display);font-weight:700}
+.calendar-group-toggle{background:var(--surface)}

diff --git a/app/layout.tsx b/app/layout.tsx
@@ -27,7 +27,7 @@ export const metadata: Metadata = {
 };
 
 export const viewport: Viewport = {
-  themeColor: "#2a1a8c",
+  themeColor: "#ffffff",
   width: "device-width",
   initialScale: 1,
   viewportFit: "cover",
